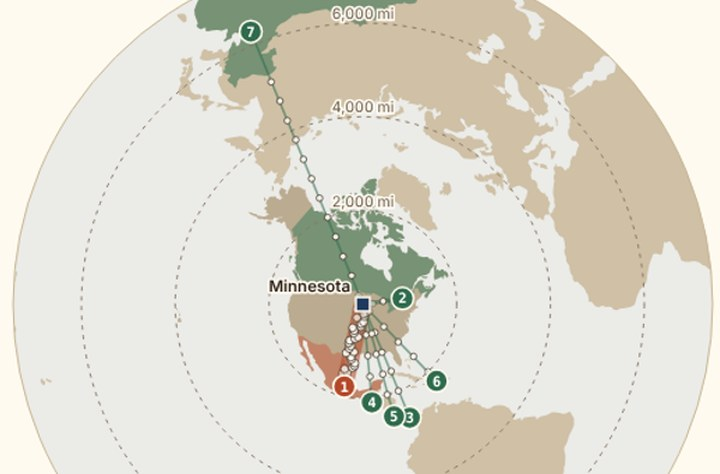
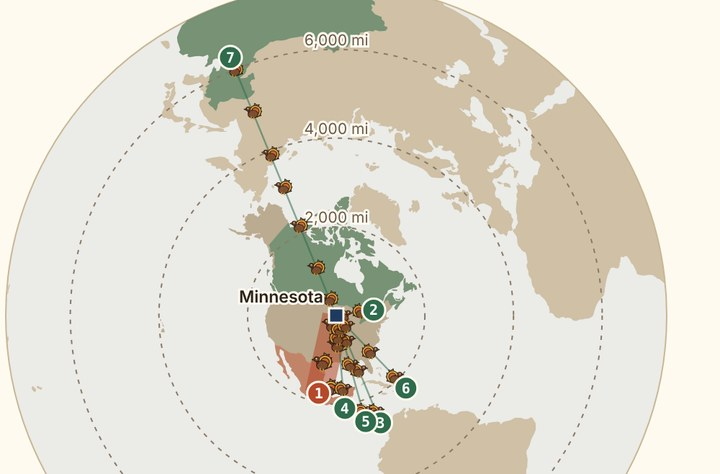
Week 46: little turkeys replace the moving dots; refreshed images
Claude-Session: https://claude.ai/code/session_01UJ1HExGFGdyEqxkKKcKWZL

diff --git a/mn-turkey/index.html b/mn-turkey/index.html
@@ -350,7 +350,7 @@ td:first-child { font-weight: 600; white-space: nowrap; }
         <div id="w4"><span class="rv" id="r4">1,910 mi</span><span class="rn" id="rn4">average distance of a mapped export dollar</span></div>
         <div id="w5"><span class="rv" id="r5">75%</span><span class="rn" id="rn5">of export dollars go to markets within 2,000 mi</span></div>
       </div>
-      <p class="note" id="slnote">How to read it: streams run in a straight line from Minnesota, and their width is proportional to estimated dollars. Rings show true distance from Minneapolis, because this map is centered there. Dots move at the same speed everywhere, so a farther market takes longer to reach: that shows distance, not real transit times. <b>Distances are straight lines from Minneapolis to each country's capital,</b> not shipping routes; the fact sheet does not say where the turkey is shipped from or which ports it uses, and Minnesota's farms are spread across the state. “All other” (15% of dollars, many countries) cannot be placed, so the average distance and the within-2,000-miles share cover the named markets only. The other markets together are about $30.2 million today (29% of the total); replacing Mexico entirely takes about +245% growth from them (90% of the simulated roundings fall between +234% and +256%). The ranges on the readouts come from 3,000 simulated roundings, each share varied by up to ±0.5 point and rescaled to 100%; they show the 5th to 95th percentile. The fact sheet gives no price, volume or time dimension, so none of this says how likely a shift is or how quickly other markets could grow. Trade-agreement reviews, tariffs and avian flu are outside this dataset.</p>
+      <p class="note" id="slnote">How to read it: streams run in a straight line from Minnesota, and their width is proportional to estimated dollars. The number of little turkeys is only for show, so small markets still get a few. Rings show true distance from Minneapolis, because this map is centered there. The little turkeys move at the same speed everywhere, so a farther market takes longer to reach: that shows distance, not real transit times. <b>Distances are straight lines from Minneapolis to each country's capital,</b> not shipping routes; the fact sheet does not say where the turkey is shipped from or which ports it uses, and Minnesota's farms are spread across the state. “All other” (15% of dollars, many countries) cannot be placed, so the average distance and the within-2,000-miles share cover the named markets only. The other markets together are about $30.2 million today (29% of the total); replacing Mexico entirely takes about +245% growth from them (90% of the simulated roundings fall between +234% and +256%). The ranges on the readouts come from 3,000 simulated roundings, each share varied by up to ±0.5 point and rescaled to 100%; they show the 5th to 95th percentile. The fact sheet gives no price, volume or time dimension, so none of this says how likely a shift is or how quickly other markets could grow. Trade-agreement reviews, tariffs and avian flu are outside this dataset.</p>
     </div>
   </section>
 
@@ -484,13 +484,14 @@ function mulberry(a){return function(){a|=0;a=a+0x6D2B79F5|0;let t=Math.imul(a^a
 const MC=(()=>{const r=mulberry(46),out=[];for(let n=0;n<3000;n++){const s=SH0.map(b=>b+(r()-.5)),t=s.reduce((a,b)=>a+b,0);out.push(s.map(a=>a*100/t))}return out})();
 function rng(x,key){const a=MC.map(s=>scen(s,x,true)[key]).sort((p,q)=>p-q);return [a[Math.floor(a.length*.05)],a[Math.floor(a.length*.95)]]}
 const FL={lens:"dist",x:0,refill:true,range:false,run:false,parts:[],acc:[],last:0,S:null};
-const RATE=0.3; // dots per second per $M
+const RATE=0.028; // turkeys per second per $M, with a floor so small markets stay visible
 const SRC_MAP="Sources: Minnesota Dept. of Agriculture, Minnesota Turkey Fact Sheet (2023): export shares and the $104M total; year not labeled, 2023-era data, about three years old. Dollars = share × $104M (pug estimate). Distances: straight line from Minneapolis to each country's capital, not shipping routes. Map: Natural Earth land (via world-atlas), azimuthal equidistant projection centered on Minneapolis. The stress test is arithmetic by the pugs, not a forecast.";
 function buildFlow(){
   const host=document.getElementById("c-flow");host.innerHTML="";
   const side=Math.max(280,Math.min(host.clientWidth||600,640)),cx=side/2,cy=side/2+2,rr=side/2-4,sc=rr/U,narrow=side<480;
   const sl=wrapTxt(SRC_MAP,side-8,11),HH=side+sl.length*14+22;
   const svg=el("svg",{width:side,height:HH,viewBox:`0 0 ${side} ${HH}`},host);
+svg.insertAdjacentHTML("afterbegin",'<defs><symbol id="tk" viewBox="0 0 24 22" overflow="visible"><g stroke="#2b1d12" stroke-width="1" stroke-linejoin="round"><path d="M9 12 L1.5 6 L3 10.5 L0.8 11 L3.4 14.2 L1.6 16.5 L5 17 Z M9 12 L4 2.5 L7 3 L10 .8 L11 8 Z" fill="#e0a43a"/><circle cx="9" cy="11" r="7.6" fill="#e0a43a"/><circle cx="9" cy="11" r="4.8" fill="#c9622f"/><ellipse cx="12" cy="14.5" rx="6.4" ry="5" fill="#7a4a2b"/><path d="M14.5 17.5 L14 21 M11 18.5 L10.6 21.4" fill="none" stroke="#c9922f" stroke-width="1.4"/><circle cx="18.2" cy="8" r="2.7" fill="#7a4a2b"/><path d="M16.6 10.6 Q16.2 12.8 17.6 13 Q18.8 12 18.4 10.4Z" fill="#d12f2f"/><path d="M20.4 7.2 L23.4 8.4 L20.4 9.4Z" fill="#f2b632"/></g><circle cx="18.6" cy="7.3" r=".7" fill="#fff"/></symbol></defs>');
   sl.forEach((t,k)=>txt(svg,t,{x:2,y:side+24+k*14,class:"srcl"}));
   el("circle",{cx,cy,r:rr,fill:"color-mix(in srgb, var(--navy) 9%, var(--panel))",stroke:"var(--axis)"},svg);
   const g=el("g",{transform:`translate(${cx} ${cy}) scale(${sc})`},svg);
@@ -498,7 +499,7 @@ function buildFlow(){
   el("path",{d:GEO.c.US,fill:"var(--neutral-ink)",opacity:.3},g);
   DEST.forEach((d,i)=>{if(GEO.c[d.k])el("path",{d:GEO.c[d.k],fill:i===0?"var(--rust)":"var(--pine)",opacity:i===0?.5:.55},g)});
   RING_MI.forEach(m=>{const r=m*MI*U/KMX*sc;el("circle",{cx,cy,r,fill:"none",stroke:"var(--ref)","stroke-dasharray":"3 4","stroke-width":1,class:"ringc"},svg);txt(svg,m.toLocaleString("en-US")+" mi",{x:cx,y:cy-r-3,"text-anchor":"middle",class:"ringl ringc"})});
-  FL.kpx=narrow?.26:.34;FL.cx=cx;FL.cy=cy;FL.pxs=1000*(U/KMX)*sc;
+  FL.kpx=narrow?.26:.34;FL.cx=cx;FL.cy=cy;FL.pxs=1600*(U/KMX)*sc;
   FL.hi=[];FL.base=[];FL.lo=[];FL.len=[];FL.ux=[];FL.uy=[];
   const col=i=>i===0?"var(--rust)":"var(--pine)";
   DEST.forEach((d,i)=>{const X=cx+d.ux*sc,Y=cy+d.uy*sc,L=Math.hypot(X-cx,Y-cy);FL.len.push(L);FL.ux.push((X-cx)/L);FL.uy.push((Y-cy)/L);
@@ -553,13 +554,13 @@ function setX(v){FL.x=v;applyFlow()}
 function tick(t){
   if(!FL.run){FL.last=0;return}
   if(!FL.last)FL.last=t;const dt=Math.min(.1,(t-FL.last)/1000);FL.last=t;
-  DEST.forEach((d,i)=>{FL.acc[i]+=RATE*FL.S.w[i]*dt;
-    while(FL.acc[i]>=1){FL.acc[i]-=1;if(FL.parts.length<260){const c=el("circle",{r:i===0?2.8:2.3,fill:"#fffaf0",stroke:"var(--dot)","stroke-width":.7,opacity:0},FL.dots);FL.parts.push({i,d:0,c,o:(Math.random()-.5)*.7})}}});
+  DEST.forEach((d,i)=>{FL.acc[i]+=(FL.S.w[i]>0.05?Math.max(RATE*FL.S.w[i],0.2):0)*dt;
+    while(FL.acc[i]>=1){FL.acc[i]-=1;if(FL.parts.length<260){const w=i===0?15:13,c=el("use",{href:"#tk",x:-w/2,y:-w*11/24,width:w,height:w*22/24,opacity:0},FL.dots);FL.parts.push({i,d:0,c,o:(Math.random()-.5)*.7})}}});
   for(let n=FL.parts.length-1;n>=0;n--){
     const p=FL.parts[n];p.d+=FL.pxs*dt;const L=FL.len[p.i];
     if(p.d>=L){p.c.remove();FL.parts.splice(n,1);continue}
     const w=+FL.base[p.i].getAttribute("stroke-width")||0,off=p.o*w,ux=FL.ux[p.i],uy=FL.uy[p.i],t2=p.d/L;
-    p.c.setAttribute("cx",FL.cx+ux*p.d-uy*off);p.c.setAttribute("cy",FL.cy+uy*p.d+ux*off);p.c.setAttribute("opacity",(.9*Math.min(1,p.d/14,(L-p.d)/14)).toFixed(2));
+    p.c.setAttribute("transform","translate("+(FL.cx+ux*p.d-uy*off).toFixed(1)+" "+(FL.cy+uy*p.d+ux*off).toFixed(1)+") scale("+(ux<0?-1:1)+" 1)");p.c.setAttribute("opacity",(.9*Math.min(1,p.d/14,(L-p.d)/14)).toFixed(2));
   }
   requestAnimationFrame(tick);
 }
